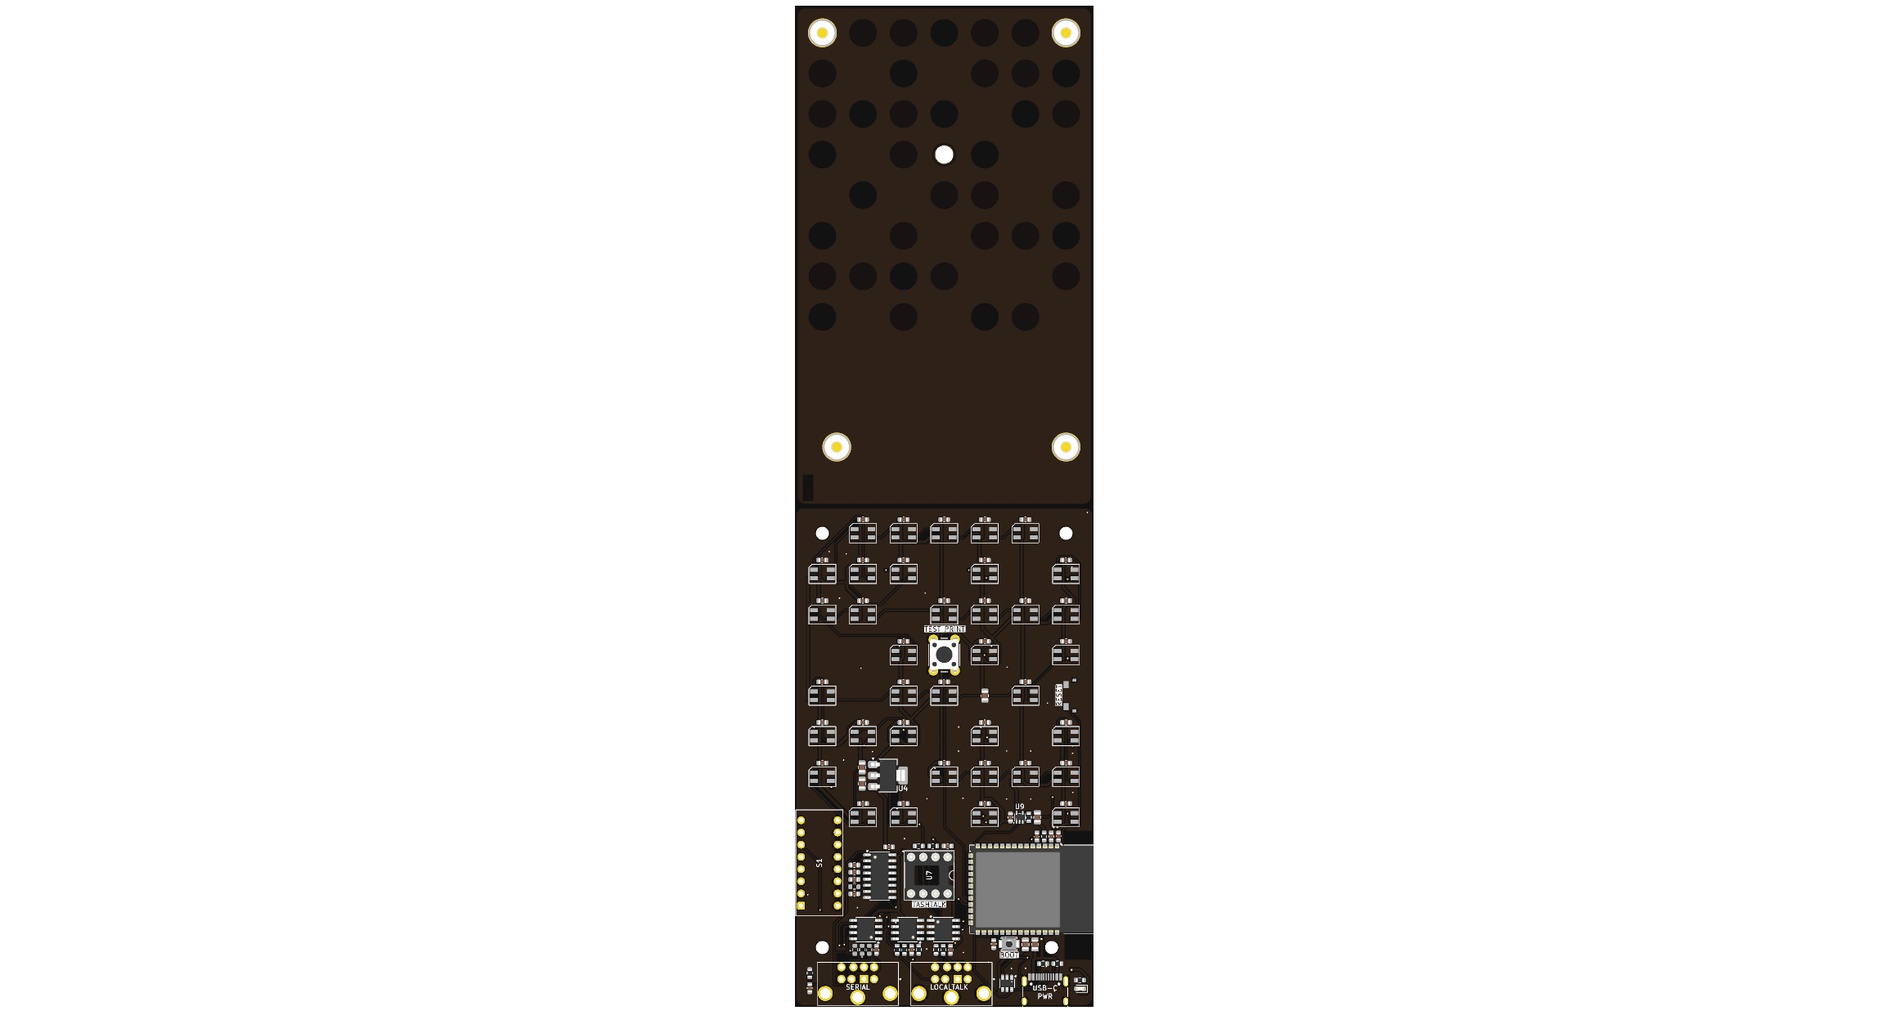
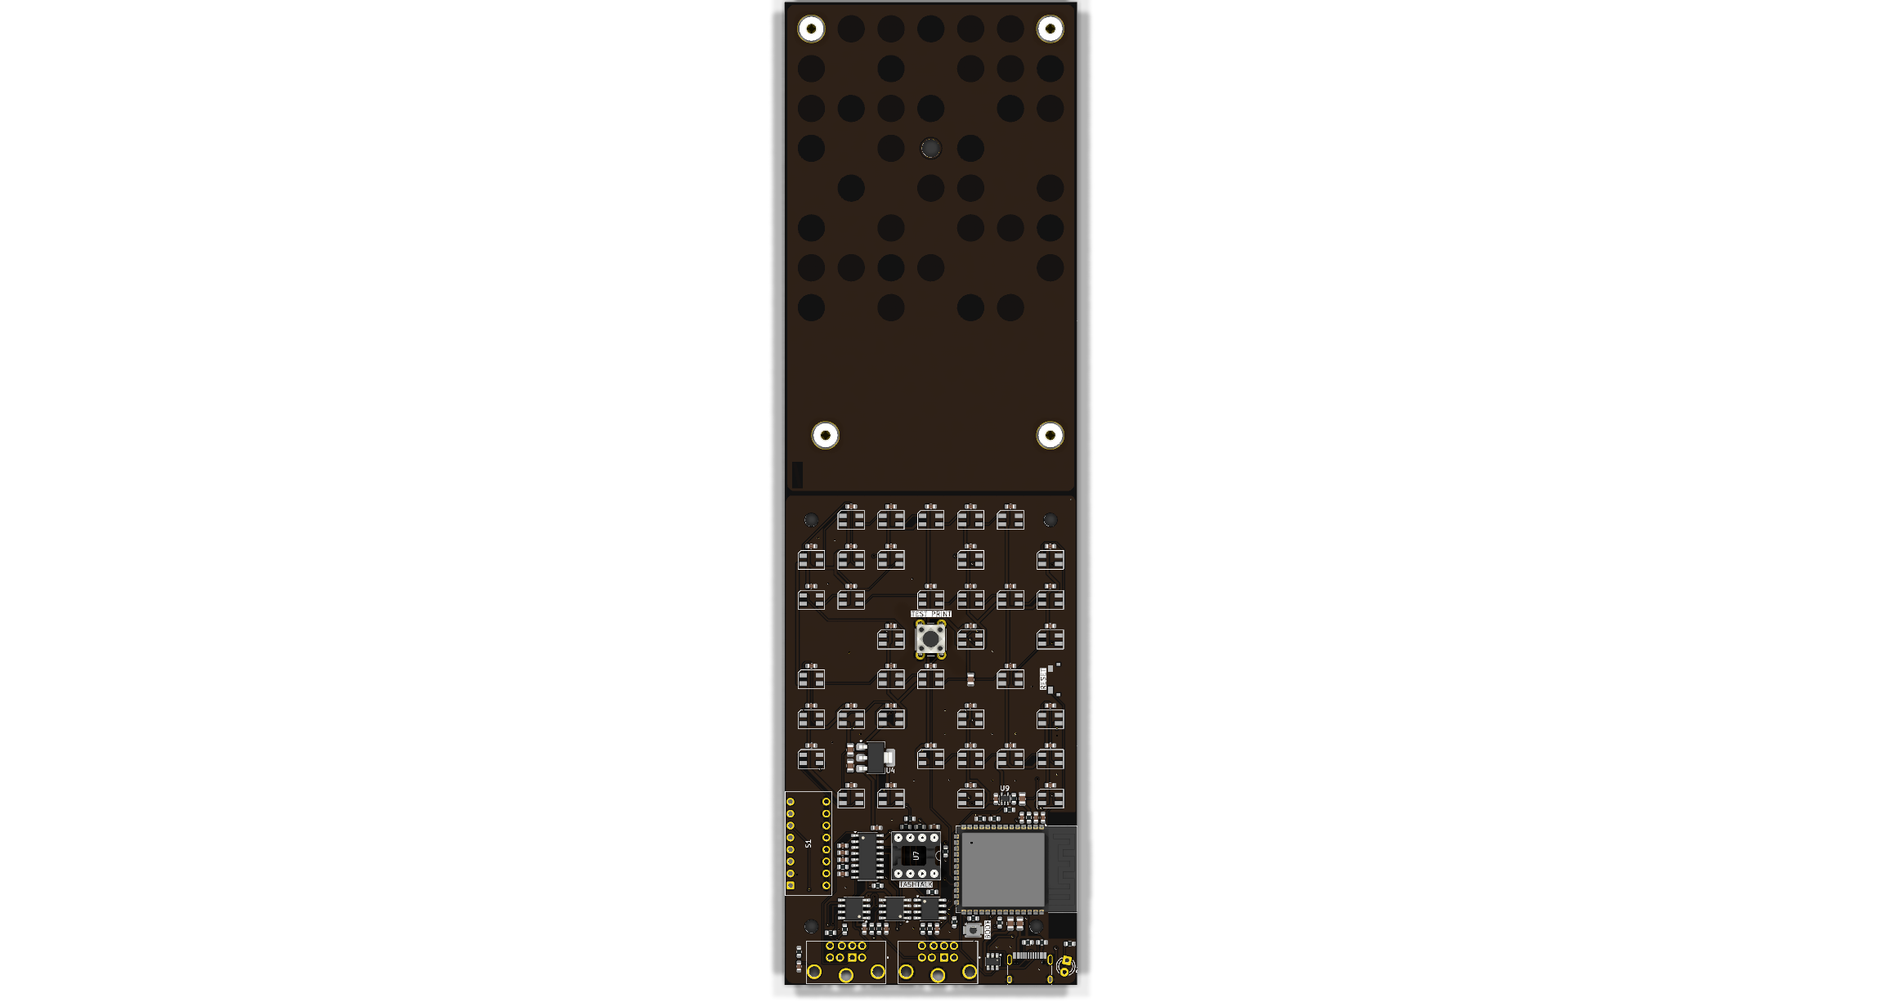
Docs: rev 2026.11 as drawn, order notes for its PCBWay order (W-1091)
docs/hardware-rev-2026-11.md is the board as routed: U3's swapped channels,
the GPIOs that changed, parts that moved, rev A copper that changed, and
what to leave alone. ORDER-NOTES now describes the rev 2026.11 order with
its two variants, and combined-top.png is re-rendered from the routed
panel in its stackup colours.

Refs: W-1091

Changed region(s): [[0.402, 0.0, 0.5875, 1.0], [0.4948, 0.1234, 0.5257, 0.1542]]

diff --git a/docs/ORDER-NOTES.md b/docs/ORDER-NOTES.md
@@ -1,97 +1,93 @@
-# PCBWay order notes — combined panel (final, 2026-08-28)
+# PCBWay order notes: rev 2026.11 combined panel
 
-Canonical, paste-ready. Supersedes the notes inside `docs/review-2026-08-25-pre-order-2.md`.
-Upload **only** `hardware/combined-fab.zip` + `hardware/combined/combined-top.png`.
-Standing rule: quote to Wells before the order is placed.
+Paste-ready. Upload **only** `hardware/combined-fab.zip` and `hardware/combined/combined-top.png`.
+Standing rule: quote to Wells before the order is placed. Rev A's order (W654223ASS53,
+T-S54W654223A) and its notes are in git history.
 
 ## Board spec (order form)
 
 - One customer panel, profile **62.0 × 208.54 mm**, containing **TWO different designs**:
   main board 62 × 104.27 mm (bottom half of the file), art cover panel 62 × 104.27 mm
   (top half), butted flush.
-- Separate with **ONE V-score** along y = 60, full panel width — drawn and labelled
-  "V-CUT" on the User.Comments layer. There is **one 2 × 4 mm routed relief at each end**
-  of the score (rounded corners). Copper is set back **0.5 mm** from the score line on
-  both sides and both layers, by design.
+- Separate with **ONE V-score** along y = 60, full panel width, drawn and labelled "V-CUT"
+  on the User.Comments layer. There is **one 2 × 4 mm routed relief at each end** of the
+  score (rounded corners). Copper is set back **0.5 mm** from the score line on both sides
+  and both layers, by design.
 - **2 layer, 1.6 mm FR4, 1 oz, matte BLACK soldermask both sides, white silkscreen, ENIG.**
 - Min trace/space **0.15 mm (6 mil)** generally. **Exception: four spots need 0.12 mm
-  (4.7 mil) space**, all around U4's SOT-223 tab at approx. x 115–120 / y 113–120 mm of
-  the main-board half (the project's `GND_STITCH_012` rule area). Please quote/accept
-  4.7 mil space at those points; everywhere else is ≥ 0.15 mm. Vias 0.6 mm pad / 0.3 mm
-  drill; drill floor 0.30 mm.
-- **NPTH:** 2 × 0.65 mm (J1 pegs) and 4 × 2.75 mm (mounting) only.
-  The **3.8 mm hole is PLATED on purpose** (netless gold bore on the art panel — it is in
-  the PTH drill file; do not convert it to NPTH).
+  (4.7 mil) space**, all around U4's SOT-223 tab at approx. x 115–120 / y 113–120 mm of the
+  main-board half (the project's `GND_STITCH_012` rule area). Everywhere else is ≥ 0.15 mm.
+- Vias: 0.6 mm pad / 0.3 mm drill, plus five 0.8/0.4, one 0.6/0.4 and one 0.9/0.5 (the
+  VBUS via). Drill floor 0.30 mm.
+- **NPTH:** 2 × 0.65 mm (J1 pegs) and 4 × 2.75 mm (mounting) only. The **3.8 mm hole is
+  PLATED on purpose** (netless gold bore on the art panel; it is in the PTH drill file, do
+  not convert it to NPTH).
 
-## Assembly
+## Assembly: two variants from the same panel
 
-1. Single side (top side of the file), ~127 placements per the position file.
-2. **DO NOT fit or buy J2, J4** (mini-DIN-8; customer hand-solders after delivery). They
-   are absent from the position file by design and appear in the BOM only with
-   DO-NOT-ASSEMBLE notes.
+| Variant | Position file | BOM | Placements |
+|---|---|---|---|
+| AirWriter | `combined-pos.csv` | `combined-assembly-bom.csv` | 138 |
+| AirWriter Lite | `combined-lite-pos.csv` | `combined-lite-assembly-bom.csv` | 61 |
+
+Lite leaves off the LED array (D10–D46 and C30–C66), U9, R20, C21 and C29, and fits R33;
+AirWriter leaves R33 off. Both are single-sided (the top side of the file).
+
+1. **J2 (Kycon KMDGX-8S-BS mini-DIN-8): ASSEMBLE.** Not at LCSC; source from Mouser.
+   Through-hole, 11 joints.
+2. **J4: DO NOT ASSEMBLE.** It is fitted by hand with the TashTalk add-on, and is absent
+   from both position files.
 3. **U7: fit ONLY the DIP-8 socket, LCSC C72124.** Do not buy or fit the PIC.
-4. **MT1–MT4: Wurth 9774030151R** M2.5 SMT standoff — not on LCSC; source from Digi-Key
-   or consigned. If consigned, the package is labelled **"MT1-MT4, Wurth 9774030151R,
-   qty 4 + 2 spares"**. Reflow on the top side; paste is the ring aperture in the paste
-   layer; the seat centre is bare ENIG with no paste.
-5. **D10–D46 (37 × SK6812MINI-C, C7423117): align by the CHAMFERED corner**, which must
-   sit on the footprint's chamfer/notch corner — the top-left corner of every LED in the
-   top-view image. The footprint's pad numbering is rotated 180° from the datasheet's pin
-   numbers: align by the chamfer, not by "pad 1". A 180° placement breaks the whole chain.
-6. Substitutions allowed: D3 (LCSC C12624 KT-0603G; if out of stock — any 0603 green LED,
-   cathode per the silk bar) and R3/R14 (C25804 was restocked 2026-08-28; any 10 k 1%
-   0603 stays pre-authorised as fallback). **No substitution** for U1–U9, J1, S1, SW1–SW3
-   — and U1 must be the quad-PSRAM **N8R2** module, never an octal-PSRAM variant.
-7. Please confirm polarity of U2, U3, U6, U8 (SOIC pin-1 dot), the U7 socket notch, D3
-   and J1 against `combined-top.png` before placement.
+4. **D3: through-hole 3 mm flat-top green LED (LCSC C20613324) standing on a HIWA LED4*8
+   nylon spacer (LCSC C92326):** leads through the spacer's bore, the LED's flange seated
+   on the spacer, lens up. Cathode (pad 1) toward R17.
+5. **Through-hole parts (J2, S1, SW3, U7's socket, D3): solder every joint fully.** Rev A's
+   first boards came back with S1, U7 and SW3 only tacked.
+6. **MT1–MT4: Wurth 9774030151R** M2.5 SMT standoff, not at LCSC; source from Digi-Key or
+   consign (labelled "MT1-MT4, Wurth 9774030151R, qty 4 + 2 spares"). Reflow on the top
+   side; paste is the ring aperture in the paste layer; the seat centre is bare ENIG with
+   no paste.
+7. **D10–D46 (37 × SK6812MINI-C, C7423117): align by the CHAMFERED corner**, which must sit
+   on the footprint's chamfer/notch corner, the top-left corner of every LED in the top-view
+   image. The footprint's pad numbering is rotated 180° from the datasheet's pin numbers:
+   align by the chamfer, not by "pad 1". A 180° placement breaks the whole chain.
+8. Substitutions allowed: any 10 k 1 % 0603 for C25804 and any 1 k 1 % 0603 for C21190.
+   **No substitution** for U1–U9, J1, J2, S1, SW1–SW3 or D3, and U1 must be the quad-PSRAM
+   **ESP32-S3-WROOM-1-N8R2**, never an octal-PSRAM (R8) variant.
+9. Please confirm polarity of U2, U3, U6, U8 (SOIC pin-1 dot), U5 and U9, the U7 socket
+   notch, D3 and J1 against `combined-top.png` before placement.
 
 ## Known engineering-query answers
 
-- **Soldermask bridges (asked 2026-08-25 on order W654223ASS53):** no bridges needed on
-  the fine-pitch USB-C (J1) pin rows — gang-open them. The file's 0.20 mm dams there are
-  under PCBWay's 0.22 mm matte-black-ink minimum, and shrinking apertures onto 0.3 mm pads
-  is worse than no dams. Every other IC's dams clear 0.22 mm; keep the mask as designed.
-  The art-panel half's fine mask features are decorative — produce as-is.
-- **Order W654223ASS53 was placed 08-24 with superseded files** (pre-dating the 08-25 DOA
-  fixes and everything since). It must never build as uploaded: replace its files with the
-  current `combined-fab.zip` or cancel it.
-
-- **Via fill (asked 2026-08-29):** no resin fill — all vias standard plated, unfilled.
-  Do not add the via-fill/cap process. For the record, **13 vias touch SMD pads**, all on
-  GND: the 0.3 mm thermal vias in U1's centre paddle and the five in U4's tab, plus GND
-  stitch vias whose 0.3 mm drill sits fully inside the pad on **U3.10, C9.2, C12.2 and
-  U1.1**, and four more tangent to a pad edge (D29.2, D37.2, U8.5, R1.2). Minor paste
-  wicking into those barrels is acceptable; no fill, no cap, no plug.
-
-- **File replacement (2026-09-02, order T-S54W654223A):** PCBWay's 09-02 BOM quote and
-  centroid were generated from the 08-28 upload (identical to main's zip at the time).
-  Message sent with `combined-fab-rev4-32859f3.zip`: "Please replace the Gerber/drill files
-  with the attached zip. Same outline, same BOM and centroid (no parts or positions
-  changed); the update adds thermal reliefs on the through-hole pads, re-routes J2, and adds
-  four 0.3 mm vias. Board spec: four spots around U4's SOT-223 tab need 0.12 mm (4.7 mil)
-  space, everywhere else ≥ 0.15 mm. Via fill: none; 13 vias touch SMD ground pads, minor
-  wicking acceptable. Question: your centroid places SW1 at X 157.95 vs 157.225 in our file
-  — confirm that is your body-centre correction and the push plate faces the board edge."
-  Their BOM was checked line by line against ours: all parts, quantities and DNP flags
-  match; D3 substituted with NCD0603G1 (fine); MT1–4 sourced at $0.48; $57.29 for 3 units.
+- **Soldermask bridges:** no bridges needed on the fine-pitch USB-C (J1) pin rows; gang-open
+  them. The file's 0.20 mm dams there are under PCBWay's 0.22 mm matte-black-ink minimum,
+  and shrinking apertures onto 0.3 mm pads is worse than no dams. Every other IC's dams clear
+  0.22 mm; keep the mask as designed. The art-panel half's fine mask features are
+  decorative: produce as-is.
+- **Via fill:** none. All vias standard plated, unfilled; do not add the via-fill or cap
+  process. Thirteen board vias meet SMD pads, all on GND: the five in U4's tab, and stitch
+  vias on C9.2, C12.2, C17.2, D29.2, D37.2, R1.2, U1.1 and U8.5 (U1's centre paddle has its
+  own thermal holes in the footprint). Minor paste wicking into those barrels is acceptable.
 
 ## Not part of the order, but buy alongside it
 
-- **Printer cable (J2):** use Apple's own Mac-to-printer cable (590-0552-A / M0197, null-modem: 1↔2,
-3↔5, 6↔8) or any cable that works between a real Mac and the printer; many reproduction
-"ImageWriter II" cables are wired straight-through and will not work with either (buzz
-pin 1 on one end to pin 2 on the other before trusting one). Avoid mini-DIN-8 cables sold
-for S-Video or Roland gear — they may drop conductors. (Research 2026-09-02: pinouts.ru,
-colino.net's bench trace, VCF forum thread; colino.net found Pro Signal and CableLeader
-"ImageWriter" cables wired straight.)
+- **Printer cable (J2):** use Apple's own Mac-to-printer cable (590-0552-A / M0197,
+  null-modem: 1↔2, 3↔5, 6↔8) or any cable that works between a real Mac and the printer.
+  Many reproduction "ImageWriter II" cables are wired straight through and will not work
+  with either (buzz pin 1 on one end to pin 2 on the other before trusting one). Avoid
+  mini-DIN-8 cables sold for S-Video or Roland gear: they may drop conductors, and the cable
+  test reports a cable without its handshake wires.
 
 ## Files
 
 | Upload | Never upload |
 |---|---|
-| `hardware/combined-fab.zip` | anything else — stale single-board packages were deleted 2026-08-28 |
-| `hardware/combined/combined-top.png` (assembly/polarity reference) | |
+| `hardware/combined-fab.zip` | anything else |
+| `hardware/combined/combined-top.png` (assembly and polarity reference) | |
 
-Regenerate the package only via `python3 hardware/combine_boards.py` then
-`sh hardware/combined/make_fab.sh`; verify with the battery in `AGENTS.md` (Verification)
-(ERC, both DRCs with `--severity-all`, drill grep, pos row count 127).
+Regenerate the package only with `python3 hardware/combine_boards.py` then
+`sh hardware/combined/make_fab.sh`, and check it with the battery in `AGENTS.md`
+(Verification): ERC, both DRCs with `--severity-all`, the drill floor, 138 and 61 position
+rows. `combined-top.png` is rendered from `hardware/combined/combined.kicad_pcb` with
+`kicad-cli pcb render --side top --quality high --use-board-stackup-colors -w 2328 -h 1264`
+on a white background.

diff --git a/docs/hardware-rev-2026-11.md b/docs/hardware-rev-2026-11.md
@@ -1,0 +1,113 @@
+# Rev 2026.11 hardware, as drawn
+
+The main board after rev A, named for what prints on the top case. Designed and routed;
+not yet ordered or built. Why each change exists is in the design,
+`docs/superpowers/specs/2026-10-28-rev-2026-11-board-design.md`. This file is the board as
+drawn: what moved from rev A, where things are, and what to leave alone. Edit it in place.
+
+## How the board file is made
+
+`hardware/airwriter/airwriter.kicad_pcb` is generated from rev A (the `hw-rev-a` tag) by
+scripts, so every change can be read and re-run:
+
+1. `tools_pcb/r13_build.sh`: rev A's board, then `r13_sync.py` (follow the schematic),
+   `r13_place.py` (new parts, D3, TP9, silk), `r13_clean.py` (remove rev A copper the
+   changes made wrong; it stops rather than cut a net the design didn't change),
+   `r13_place.py` again, and `r13_reroute.py` (rev A copper and parts that move).
+2. `tools_pcb/r13_route.py`: the new traces. The long runs are drawn point by point; the
+   short stubs round a part's own pins are found by a small grid search in a corridor.
+
+Once Wells has edited the board in KiCad, don't re-run `r13_build.sh`: it starts again
+from rev A. Close KiCad before any of these scripts write the board.
+
+## U3's two RS-232 channels
+
+Rev A used channel 1 for the printer port and tied channel 2's inputs to GND. Rev 2026.11
+swaps them, so J4's lines leave U3 on the side facing J4:
+
+| U3 pin | Function | Net | Goes to |
+|---|---|---|---|
+| 7 | T2OUT | `HSKI_RS232` | R9 (0 Ω), J2.1 |
+| 8 | R2IN | `PR_HSKO` | J2.2 |
+| 9 | R2OUT | `UART_CTS` | IO8 |
+| 10 | T2IN | `HSKI_DRV` | IO35, R24 to GND |
+| 11 | T1IN | `HSKI_DRV` | IO35 |
+| 12 | R1OUT | `J4_HSKI_RX` | IO37 |
+| 13 | R1IN | `J4_HSKI` | J4.2 |
+| 14 | T1OUT | `J4_HSKO` | J4.1 |
+
+J4's HSKo follows J2's: IO35 drives both drivers' inputs. No free GPIO reaches U3 (IO36
+sits under UART_TX's via, IO7 is walled off north of U7, IO9–12, IO45 and IO46 are boxed
+in), so the design's own GPIO and pull-down for it (R31) went. The cable test still sees each
+handshake wire on its own: it drives IO35, and through a crossover IO8 reads J2.2 (from
+J4.1) and IO37 reads J4.2 (from J2.1).
+
+## GPIOs that changed
+
+| GPIO | Net | Notes |
+|---|---|---|
+| IO15 | `BOARD_LITE` | R33 to GND, fitted on Lite only |
+| IO16 | `BOARD_REV` | R32 to GND, fitted on every 2026.11 board; rev A floats high |
+| IO35 | `HSKI_DRV` | both of U3's drivers; R24 holds them low until the bootloader hook |
+| IO37 | `J4_HSKI_RX` | J4.2 through U3's receiver 1 |
+| IO40 | `DIP3_GPIO` | through R28 (1 k) to DIP3: the ROM drives IO40 high in USB-OTG download |
+
+Free: IO1, IO3, IO7, IO9–IO12, IO36, IO45, IO46. Only IO7 can be reached, from the north.
+
+## Parts that moved from rev A
+
+| Part | Rev A | Now | Why |
+|---|---|---|---|
+| C18 | (124.20, 152.40) | (121.55, 152.40) | beside U8's VCC pin, west of J4's handshake runs |
+| R10 | (121.20, 152.40) | (120.00, 152.40) | `LT_RXD_N` straight down from U8 |
+| R11 | (122.70, 152.40) | (118.45, 152.40) | `LT_RXD_P` straight down from U8 |
+| R14 | (125.70, 152.40) | (131.30, 144.60) | on `LT_DATA` between U7 and U6, below U7's TASHTALK label |
+| SW2 | (144.50, 151.20) | (140.00, 152.70) | so R28 sits under IO40; BOOT label to its right |
+
+The new resistors sit beside what they serve: R24 below U3, R25 east of U6 (off UART_TX's
+back run by a via), R27 east of U7 in LT_RESET's back run, R28 under IO40, R21 above SW2,
+R32 and R33 above IO16 and IO15.
+
+## Rev A copper that changed
+
+- U3's 3.3 V feed runs from pin 16 under U3's body (x 117.3) to the branch at y 144.24,
+  not down U3's right side.
+- The printer port's handshakes rejoin rev A's routes by short steps from pins 7–10; IO35
+  drops to rev A's back run through a via below U3.
+- `LT_RESET` meets R27 east of U7; U7.4 is fed back along rev A's run as `LT_MCLR`.
+- DIP1 comes up into IO38 from below; its rev A loop under the module is gone. DIP3 runs
+  down from its rev A lane to R28.
+- `BOOT_CFG` goes straight down from IO0 to R21 and SW2.
+- `LED_DATA`'s run north of the module is 0.37 mm higher, which makes room for R32 and R33's
+  ground vias.
+- The LocalTalk receive pair from R10/R11 to J4: `LT_PORT_RXD_P` on the back.
+- The VBUS via at the H4 crossing is 0.5 mm drill (rev A 0.4); a partner via has no room
+  between C22's ground pad and H4's screw head.
+- D− reaches the ESP32 through U5's pad 3, as D+ goes through U5; U5.2 has a ground via
+  under U5.
+
+## New runs
+
+- J4.1 and J4.2 from U3.14 and U3.13: down beside U3, under U8, a via each just below U8,
+  then the back layer to J4.
+- IO37: a via under U3, the back layer along the gap between `UART_CTS` and `DIP5`, up east
+  of UART_TX's diagonal to U1.30.
+- Ground vias for R24, R32, R33, TP9's patch of the back pour and U5.2.
+
+## Deliberate, don't "fix"
+
+- J4's HSKo shares IO35 with J2's (above).
+- TP9 and the old test pads sit on the back under U1's courtyard.
+- Vias under U5's and U8's bodies are tented.
+- In the combined panel's DRC (default rules), R17 and D3 add a copper-edge and a silk-edge
+  item; the main board's own 0.25 mm edge rule passes them.
+
+## Checks, 2026-10-28
+
+- ERC: 0 errors, 44 known warnings.
+- DRC with `--severity-all --schematic-parity --refill-zones`: 0 errors, 0 unconnected, 5
+  `lib_footprint_mismatch` warnings, 16 field-parity warnings.
+- `r12_gnd.py`: one GND component, no stranded pads.
+- `r7_verify.py`: rev A's known FAIL lines, plus TP9 under U1.
+- `enclosure/build.sh`: 129 tests pass.
+- `make_fab.sh`: 138 placements on AirWriter, 61 on Lite, drill floor 0.30 mm.

diff --git a/AGENTS.md b/AGENTS.md
@@ -16,6 +16,7 @@ being true, change or delete it in the same commit that made it false.
 | `docs/voice-and-tone.md` | How AirWriter writes: settings page, wiki, README, posts. Read before writing any of them. |
 | `docs/cad-routine.md` | How to design, check and iterate printed parts. Follow it for any `enclosure/` change. |
 | `docs/hardware-rev-a.md` | Rev A as built: geometry, deviations from the spec and why, rev B list. |
+| `docs/hardware-rev-2026-11.md` | Rev 2026.11 as drawn: U3's channels, the GPIOs, what moved from rev A, the scripts that build the board. |
 | `docs/library.md` | The custom KiCad library and 3D models. |
 | `docs/sourcing.md` | Fab, parts, mini-DIN and PIC decisions. |
 | `docs/prior-art.md` | TashTalk, TailTalk, AirTalk, ImageScribbler. |
@@ -362,8 +363,11 @@ Known issues, open:
 ## Open work
 
 Linear is the queue; these are the live items.
-- `W-1091 Rev B: the main board's next revision`: the rev B list (`docs/hardware-rev-a.md`),
-  with `W-1043 Rev B: through-hole dome LED for the power indicator` under it.
+- `W-1091 Rev B: the main board's next revision` (rev 2026.11, with
+  `W-1043 Rev B: through-hole dome LED for the power indicator` under it): designed, placed and
+  routed on branch `ww/rev-2026-11-board-updates-4f0c6a` (`docs/hardware-rev-2026-11.md`), not
+  merged. Next: Wells reviews the routing in KiCad, then the PCBWay order (November or
+  December). J4's HSKo shares IO35 with J2's: no free GPIO reaches U3.
 - `W-1046 Factory reset must always work, even with broken firmware` and
   `W-1045 Long-press factory reset with live feedback on the LED panel`: merged 2026-10-15, benched
   on board 1 (all pass). Board 1 has the W-1059 bootloader and partition table, so an image
@@ -457,6 +461,8 @@ Linear is the queue; these are the live items.
 - **pcbnew scripts** run on KiCad's bundled interpreter:
   `/Applications/KiCad/KiCad.app/Contents/Frameworks/Python.framework/Versions/3.9/bin/python3`.
   `hardware/airwriter/route.py` does export DSN → round → Freerouting → import → DRC headless.
+  Rev 2026.11's board is built from rev A by `tools_pcb/r13_build.sh` then `r13_route.py`
+  (`docs/hardware-rev-2026-11.md`); never re-run them over hand edits.
 - **Freerouting 2.2.4** at `~/.local/share/freerouting/freerouting.jar`, Java 25.
 - **konnect** resolves `lib_id` only against KiCad's install directory, so the project libraries
   must be symlinked into the app bundle. **The symlinks are gone since the 10.0.6 upgrade**;
@@ -530,13 +536,15 @@ Linear is the queue; these are the live items.
   2 `isolated_pin_label`).
 - **Board:** `kicad-cli pcb drc --severity-all --schematic-parity --refill-zones` on
   `hardware/airwriter/airwriter.kicad_pcb` → 0 errors, 0 unconnected, 5 `lib_footprint_mismatch`
-  warnings, 80 field-parity notes (both re-run 2026-10-15). Treat any unconnected item as real;
+  warnings, 16 field-parity warnings (rev 2026.11, 2026-10-28). Treat any unconnected item as real;
   `tools_pcb/r12_gnd.py` checks that every GND pad is on the main plane. The combined panel
   under its default rules shows only known
-  items (~274 false clearance, 14 copper_edge, 12 hole_clearance, 6 seam invalid_outline, 1
-  benign starved_thermal on U7.8).
+  items (~239 false clearance, 15 copper_edge, 12 hole_clearance, 6 seam invalid_outline, 1
+  benign starved_thermal on U7.8). Rev 2026.11's netlist gate:
+  `python3 hardware/airwriter/tools_sch/check_rev2026_11.py <kicadxml netlist>`.
 - **Fab package:** `python3 hardware/combine_boards.py` then `sh hardware/combined/make_fab.sh`;
-  drill floor 0.30 (`grep -E '^T[0-9]+C'`), pos file 127 rows with no J2/J4.
+  drill floor 0.30 (`grep -E '^T[0-9]+C'`); `combined-pos.csv` 138 rows (J2 placed, J4 not),
+  `combined-lite-pos.csv` 61.
 
 ## Bench rules (board 1)
 - **Never OTA while a job prints.** Tell Wells to hold prints, read `/api/status`, confirm

diff --git a/docs/hardware-rev-a.md b/docs/hardware-rev-a.md
@@ -107,9 +107,11 @@ pad, the BOOT pads and the back-face artwork. The rest:
 
 ## Rev B candidates
 
-Tracked as `W-1091 Rev B: the main board's next revision` in Linear, which is the copy kept
-current; this list started as the one filed on 2026-10-24. Most come from review #4
-(`docs/review-2026-09-01-pre-order-4.md`, "Rev-B list"), which has the reasoning.
+Rev B became rev 2026.11 (`W-1091 Rev B: the main board's next revision`): its design,
+`docs/superpowers/specs/2026-10-28-rev-2026-11-board-design.md`, says which of these it took,
+changed or dropped, and `docs/hardware-rev-2026-11.md` is the board as drawn. The list below
+is the one filed on 2026-10-24, kept for its reasons. Most come from review #4
+(`docs/review-2026-09-01-pre-order-4.md`, "Rev-B list").
 
 - 10 k pulldown on `LT_DE` (across U6 pins 3–5; it floats with the PIC absent or in reset).
 - 100 k from U9.2 to GND (IO48 floats until firmware claims it; brownout loop risk on 500 mA ports).
